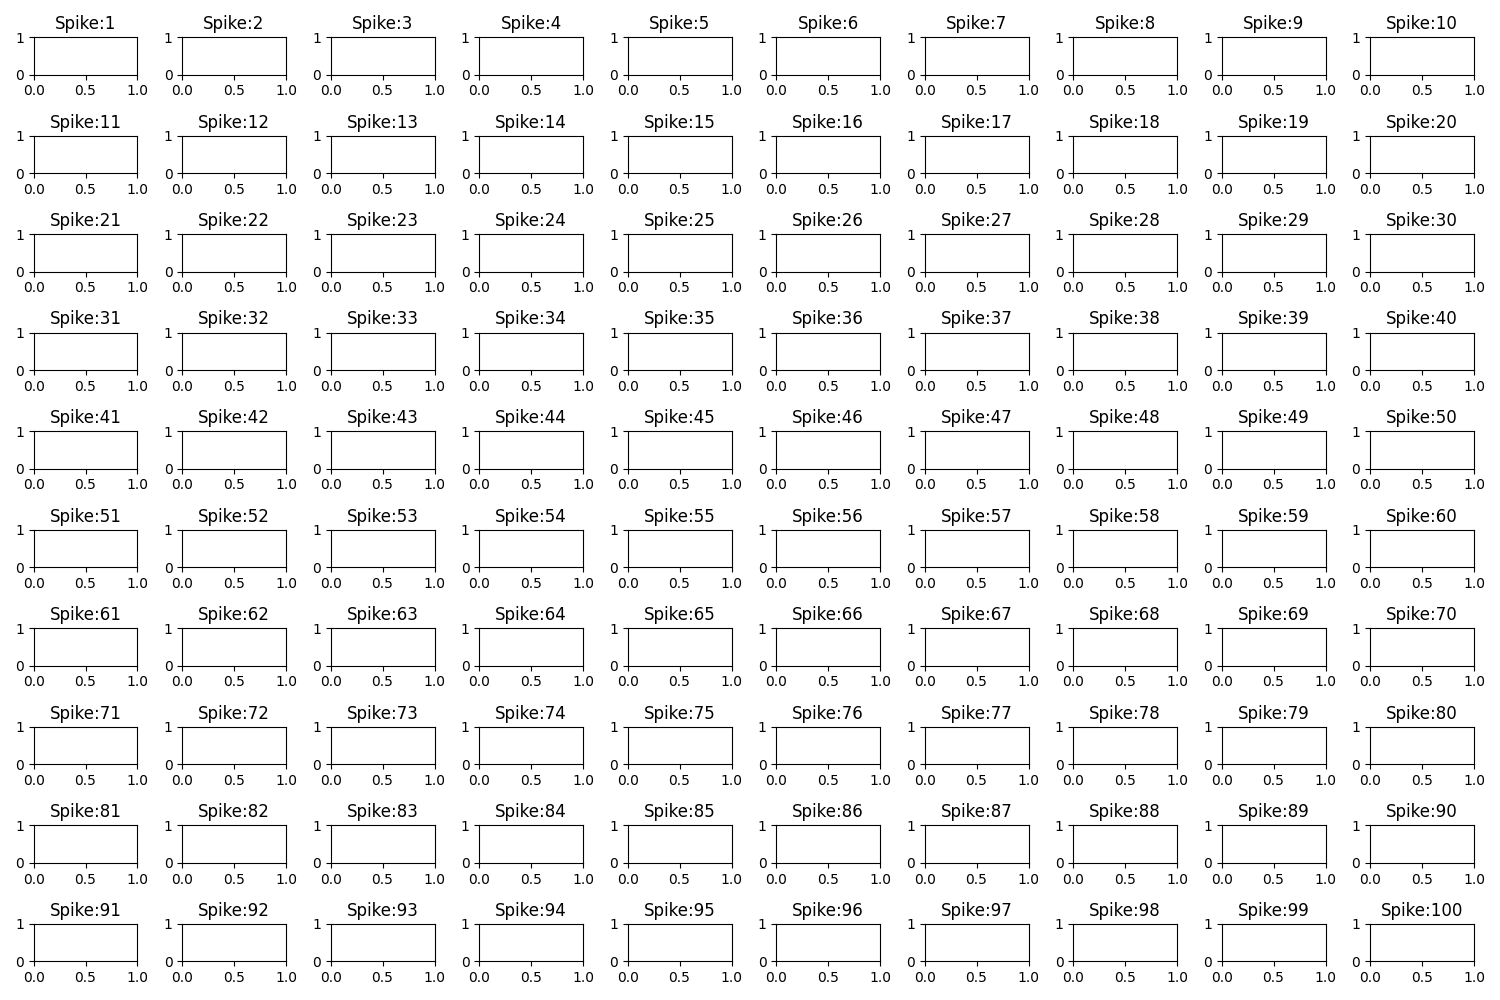
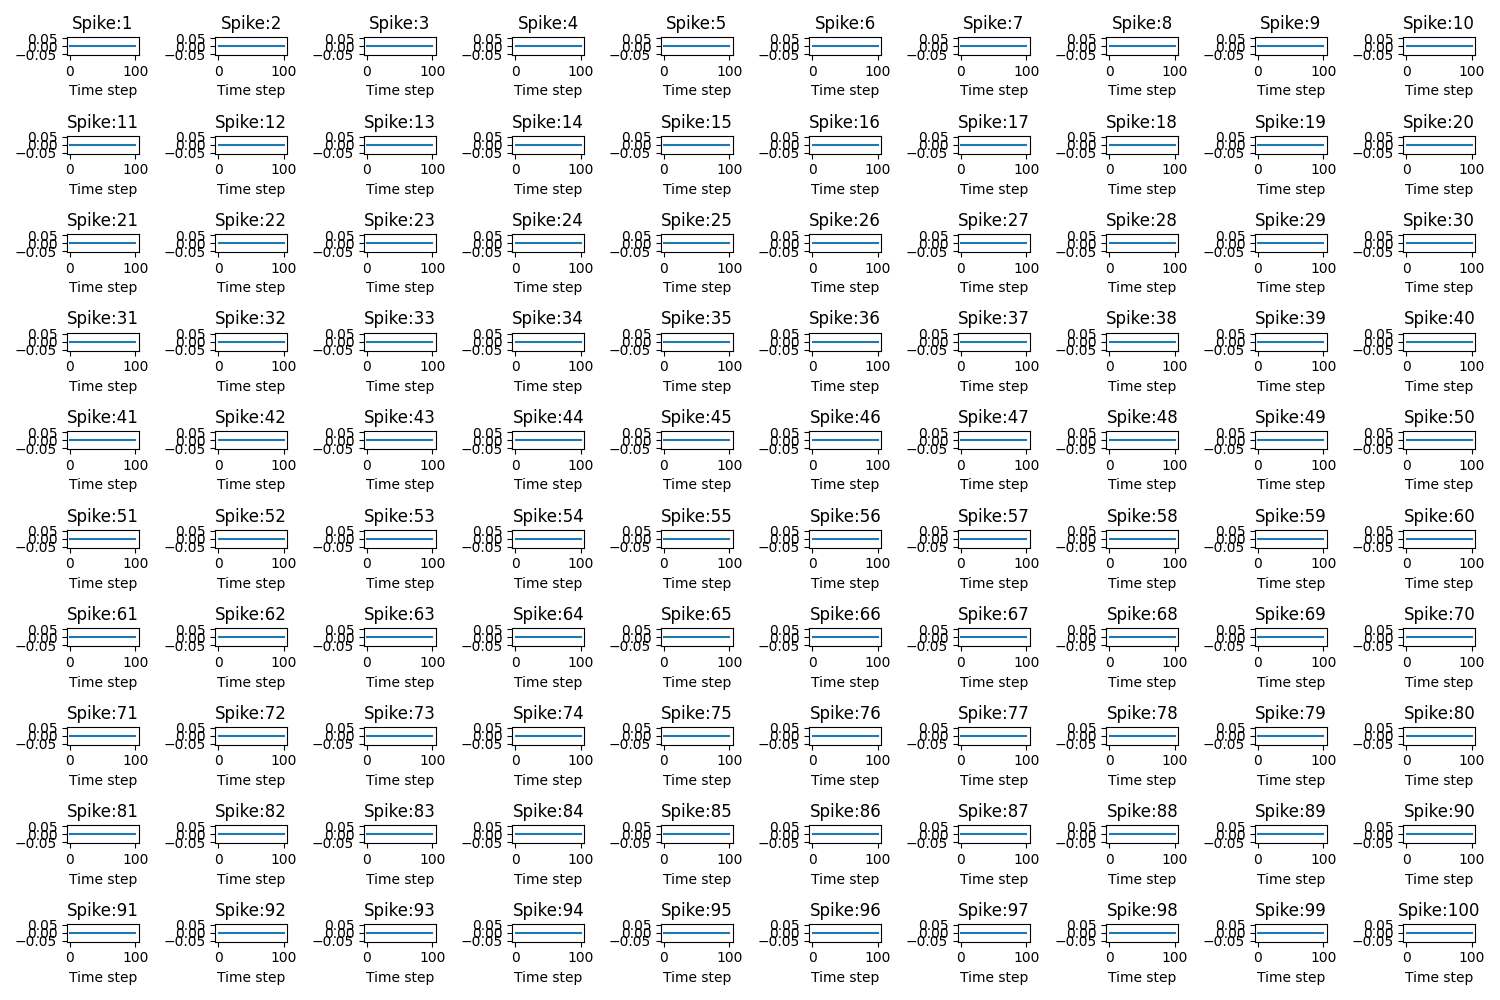
hello

diff --git a/ros/rosIO.py b/ros/rosIO.py
@@ -29,46 +29,36 @@ class lui:
         boardId = 1 
         numChips = 1
         numCoresPerChip = [1]
-        numCompartmentsPerCore = [[100]]
-        board = N2Board(boardId, numChips, numCoresPerChip, numCompartmentsPerCore)
+        synapsesPerCore = [[100]]
+        board = N2Board(boardId, numChips, numCoresPerChip, synapsesPerCore)
         # obatin the cores object 
         n2Core = board.n2Chips[0].n2Cores[0]
         n2Core.cxProfileCfg[0].configure(decayV=int(1/16*2**12))
         n2Core.vthProfileCfg[0].staticCfg.configure(vth=10)
-        n2Core.numUpdates.configure(numUpdates=1)
-        for i, j in enumerate(n2Core.synapses):
+        n2Core.numUpdates.configure(numUpdates=100)
+    
+        for i in range(0,99): 
             n2Core.cxCfg[i].configure(vthProfile = 0, cxProfile = 0)
-           
-        # checklist to configure the cores
-        # for i, j in enumerate(n2Cores):
-        #     j.cxProfileCfg[0].configure(decayV=int(1/16*2**12))
-        #     j.cxMetaState[0].configure(phase0=2)
-        #     j.vthProfileCfg[0].staticCfg.configure(vth=10)
-        #     j.numUpdates.configure(numUpdates=1)
-        #     j.cxCfg[0].configure(bias = 0, biasExp = 6, vthProfile = 0, cxProfile = 0)
-        #     j.synapses[0].CIdx = 0
-        #     j.synapses[0].Wgt = 64
-        #     j.synapses[0].synFmtId = 1
+            n2Core.synapses[i].CIdx = i
+            n2Core.synapses[i].Wgt = 10
+            n2Core.synapses[i].synfmtId = 1
+        print("n2core parent id:", n2Core.parent.id)
 
-        #     j.synapseFmt[1].wgtExp = 0
-        #     j.synapseFmt[1].wgtExp = 0
-        #     j.synapseFmt[1].wgtBits = 7
-        #     j.synapseFmt[1].numSynapses = 63
-        #     j.synapseFmt[1].cIdxOffset = 0
-        #     j.synapseFmt[1].cIdxMult = 0
-        #     j.synapseFmt[1].idxBits = 1
-        #     j.synapseFmt[1].fanoutType = 2
-        #     j.synapseFmt[1].compression = 0
+        n2Core.synapseFmt[1].wgtExp = 0
+        n2Core.synapseFmt[1].wgtBits = 7
+        n2Core.synapseFmt[1].numSynapses = 63
+        n2Core.synapseFmt[1].cIdxOffset = 0
+        n2Core.synapseFmt[1].cIdxMult = 0
+        n2Core.synapseFmt[1].idxBits = 1
+        #n2Core.synapseFmt[1].fanoutType = 2
+        n2Core.synapseFmt[1].compression = 0
 
-        #     j.synapseMap[0].synapsePtr = 0
-        #     j.synapseMap[0].synapseLen = 1 # len(synapses)
-        #     j.synapseMap[0].discreteMapEntry.configure()
-            
-        #     # j.createDiscreteAxon(srcCxId=0, 
-        #     #                         dstChipId=0, 
-        #     #                         dstCoreId=j.id, 
-        #     #                         dstSynMapId=0) 
-
+        for i in range(0, 99): 
+            n2Core.synapseMap[i].synapsePtr = 0
+            n2Core.synapseMap[i].synapseLen = 100
+            n2Core.synapseMap[i].discreteMapEntry.configure()
+        
+        
         # create host snip 
         pubSubProcess = board.createSnip(phase=Phase.HOST_CONCURRENT_EXECUTION, library=self.lib)
         cFilePath = os.path.dirname(os.path.realpath(__file__)) + "/runmgmt.c"
@@ -88,7 +78,7 @@ class lui:
         mon = self.board.monitor
         n2Core = self.board.n2Chips[0].n2Cores[0]
         numbers = list(range(100))
-        sProbe = mon.probe(n2Core.cxState, numbers, 'spike')[0]
+        sProbe = mon.probe(n2Core.cxState, numbers, 'u')
         # for i in n2Core.synapses:
         #     mon.probe()
         # # for n2Core in n2Cores:

diff --git a/ros/runmgmt.c b/ros/runmgmt.c
@@ -27,24 +27,35 @@ int inputChannelId = -1; //Store the IDs for the communication channels
 
 int do_run_mgmt(runState *s) {
     // Runs on every timestep till the 1000th timestep
-     if (s->time_step == 1) {
-    feedbackChannelId = getChannelID("feedback"); //Get ID for the feedback channel
-    inputChannelId = getChannelID("input"); //Get ID for the input channel
-    }
-    return 1;
+    // if (s->time_step == 1) {
+    // feedbackChannelId = getChannelID("feedback"); //Get ID for the feedback channel
+    // inputChannelId = getChannelID("input"); //Get ID for the input channel
+    // }
+    // return 1;
+    return s->time_step <= 1000 ? 1 : 0;
 }
 
 void run_mgmt(runState *s) {
+    int inputChannelId = getChannelID("input");
+    int feedbackChannelId = getChannelID("feedback");
 
     int data[1] = {0};
     readChannel(inputChannelId, data, 1);
 
     uint16_t coreId = data[0];
-    //coreId = 1 << 14 | (coreId & 0x3FFF);
+    coreId = 1 << 14 | (coreId & 0x3FFF);
 
     //Inject spike in the core
     printf("Spike injected in Core: %d\n", data[0]);
-    nx_send_discrete_spike(s->time_step, nx_nth_coreid(0), data[0]);
+    CoreId my_core_id = nx_my_coreid();
+    CoreId core_id_host = nx_coreid_host();
+    ChipId chip_id_host = nx_chipid_host();
+
+    printf("My Core ID: %d\n", my_core_id);
+    printf("Core ID Host: %d\n", core_id_host);
+    printf("Chip ID Host: %d\n", chip_id_host);
+
+    nx_send_discrete_spike(s->time_step, nx_nth_coreid(0), coreId);
 
     // Increment data
     data[0] += 1;
